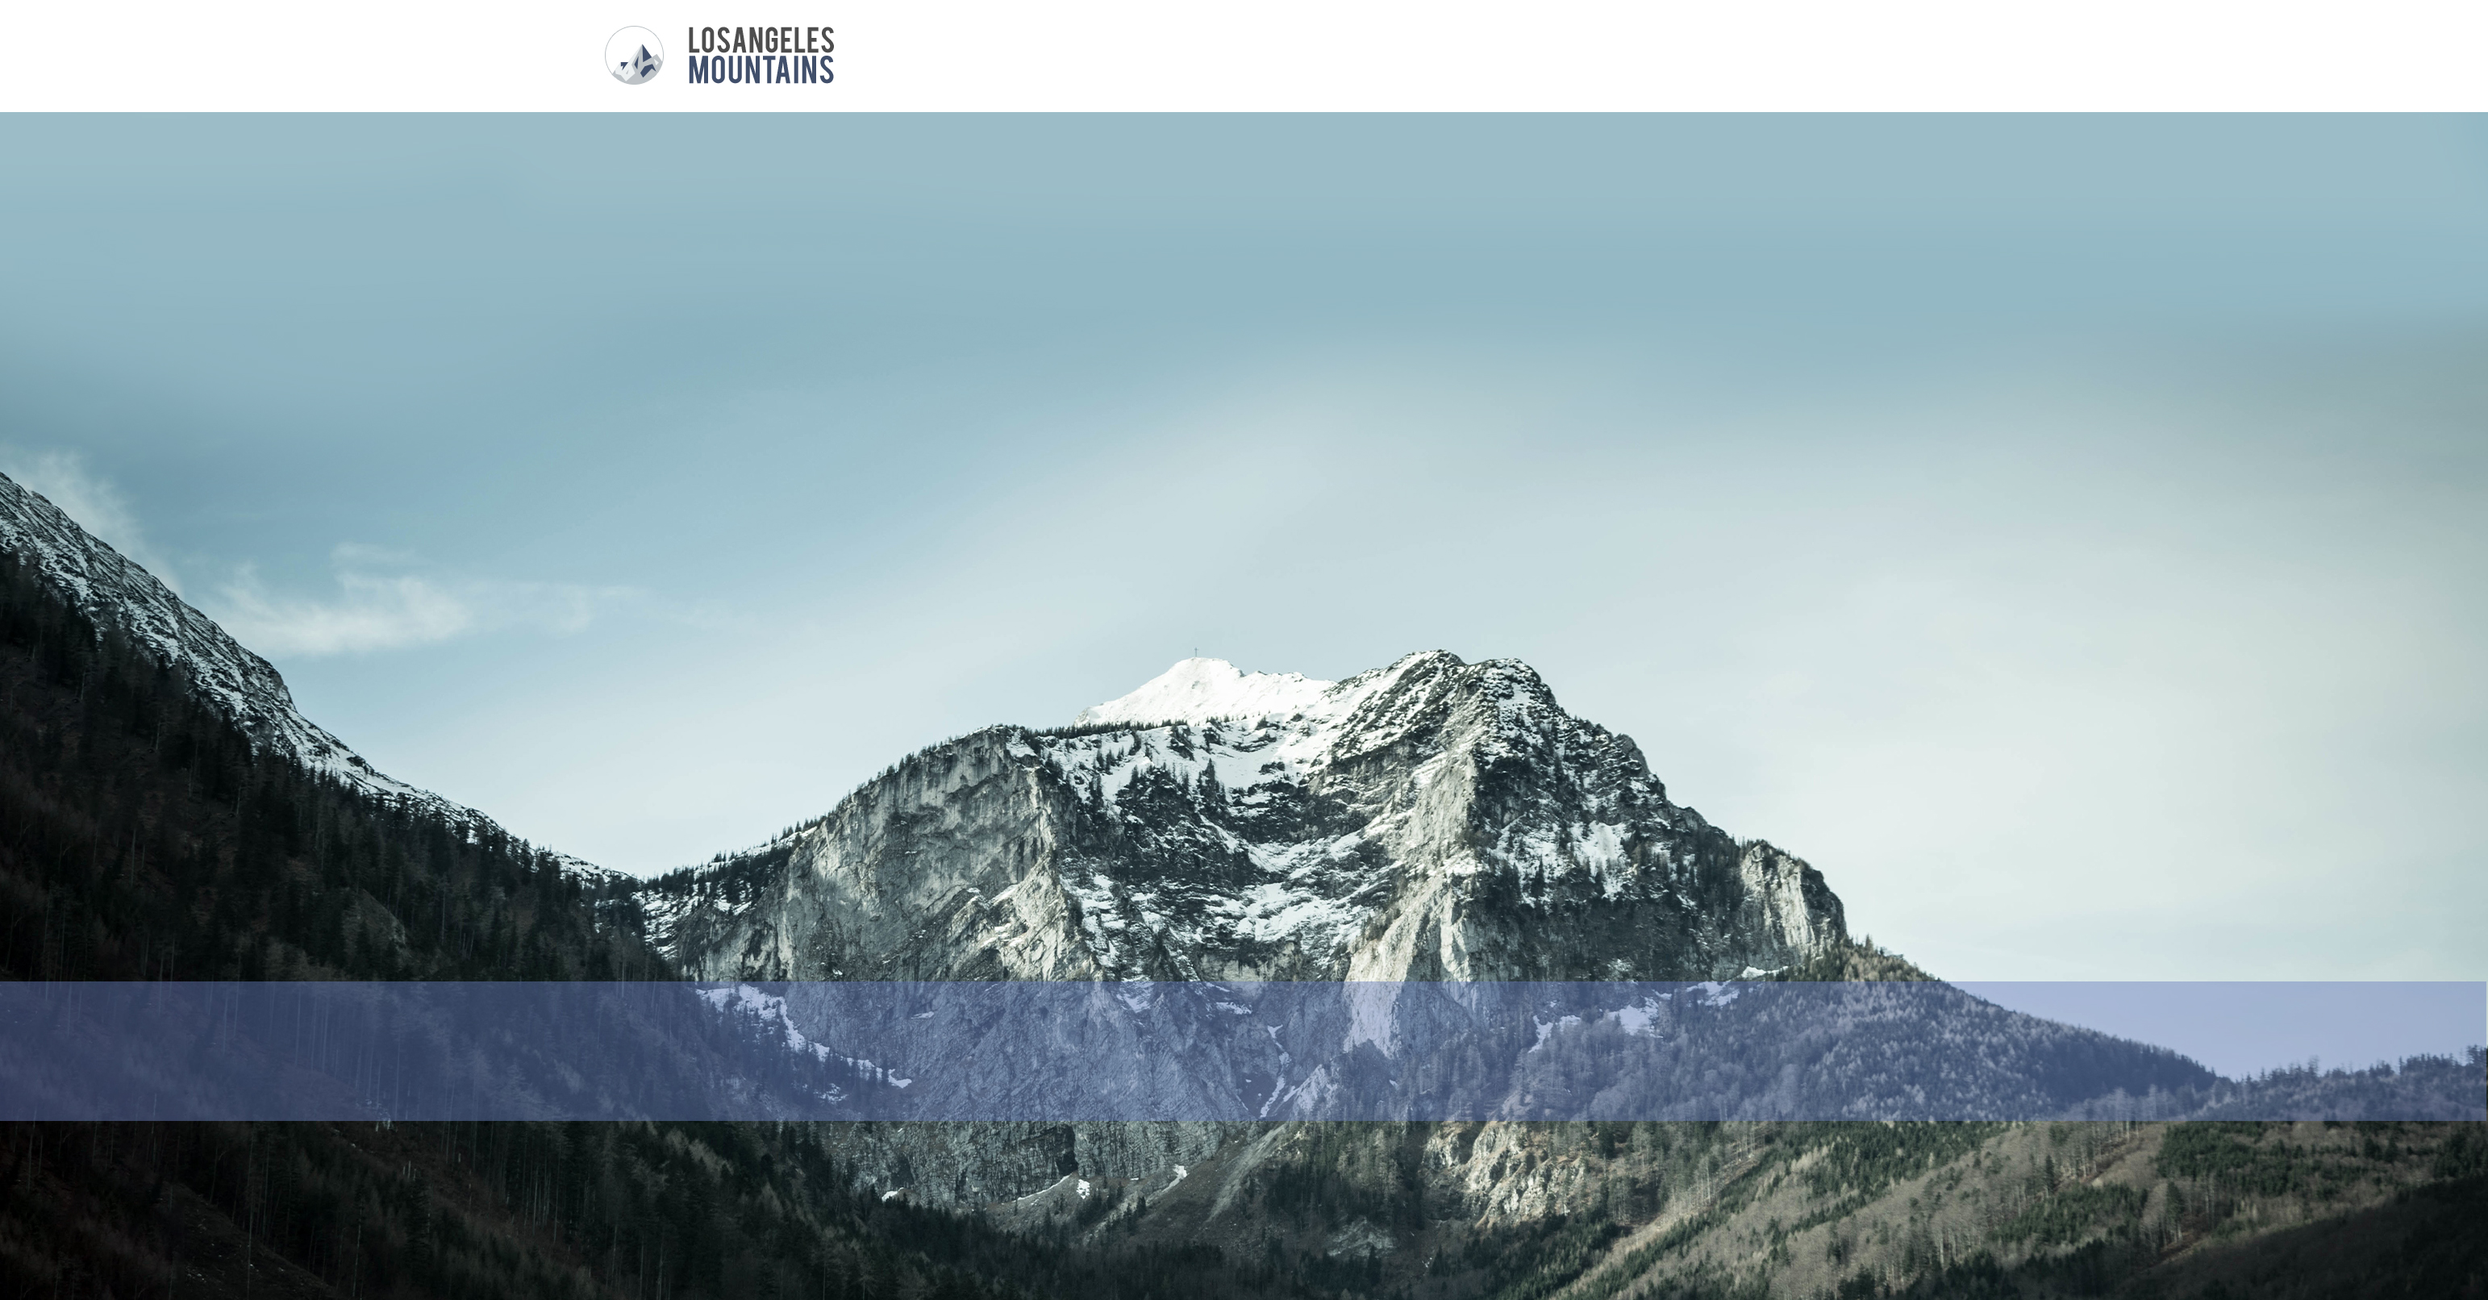
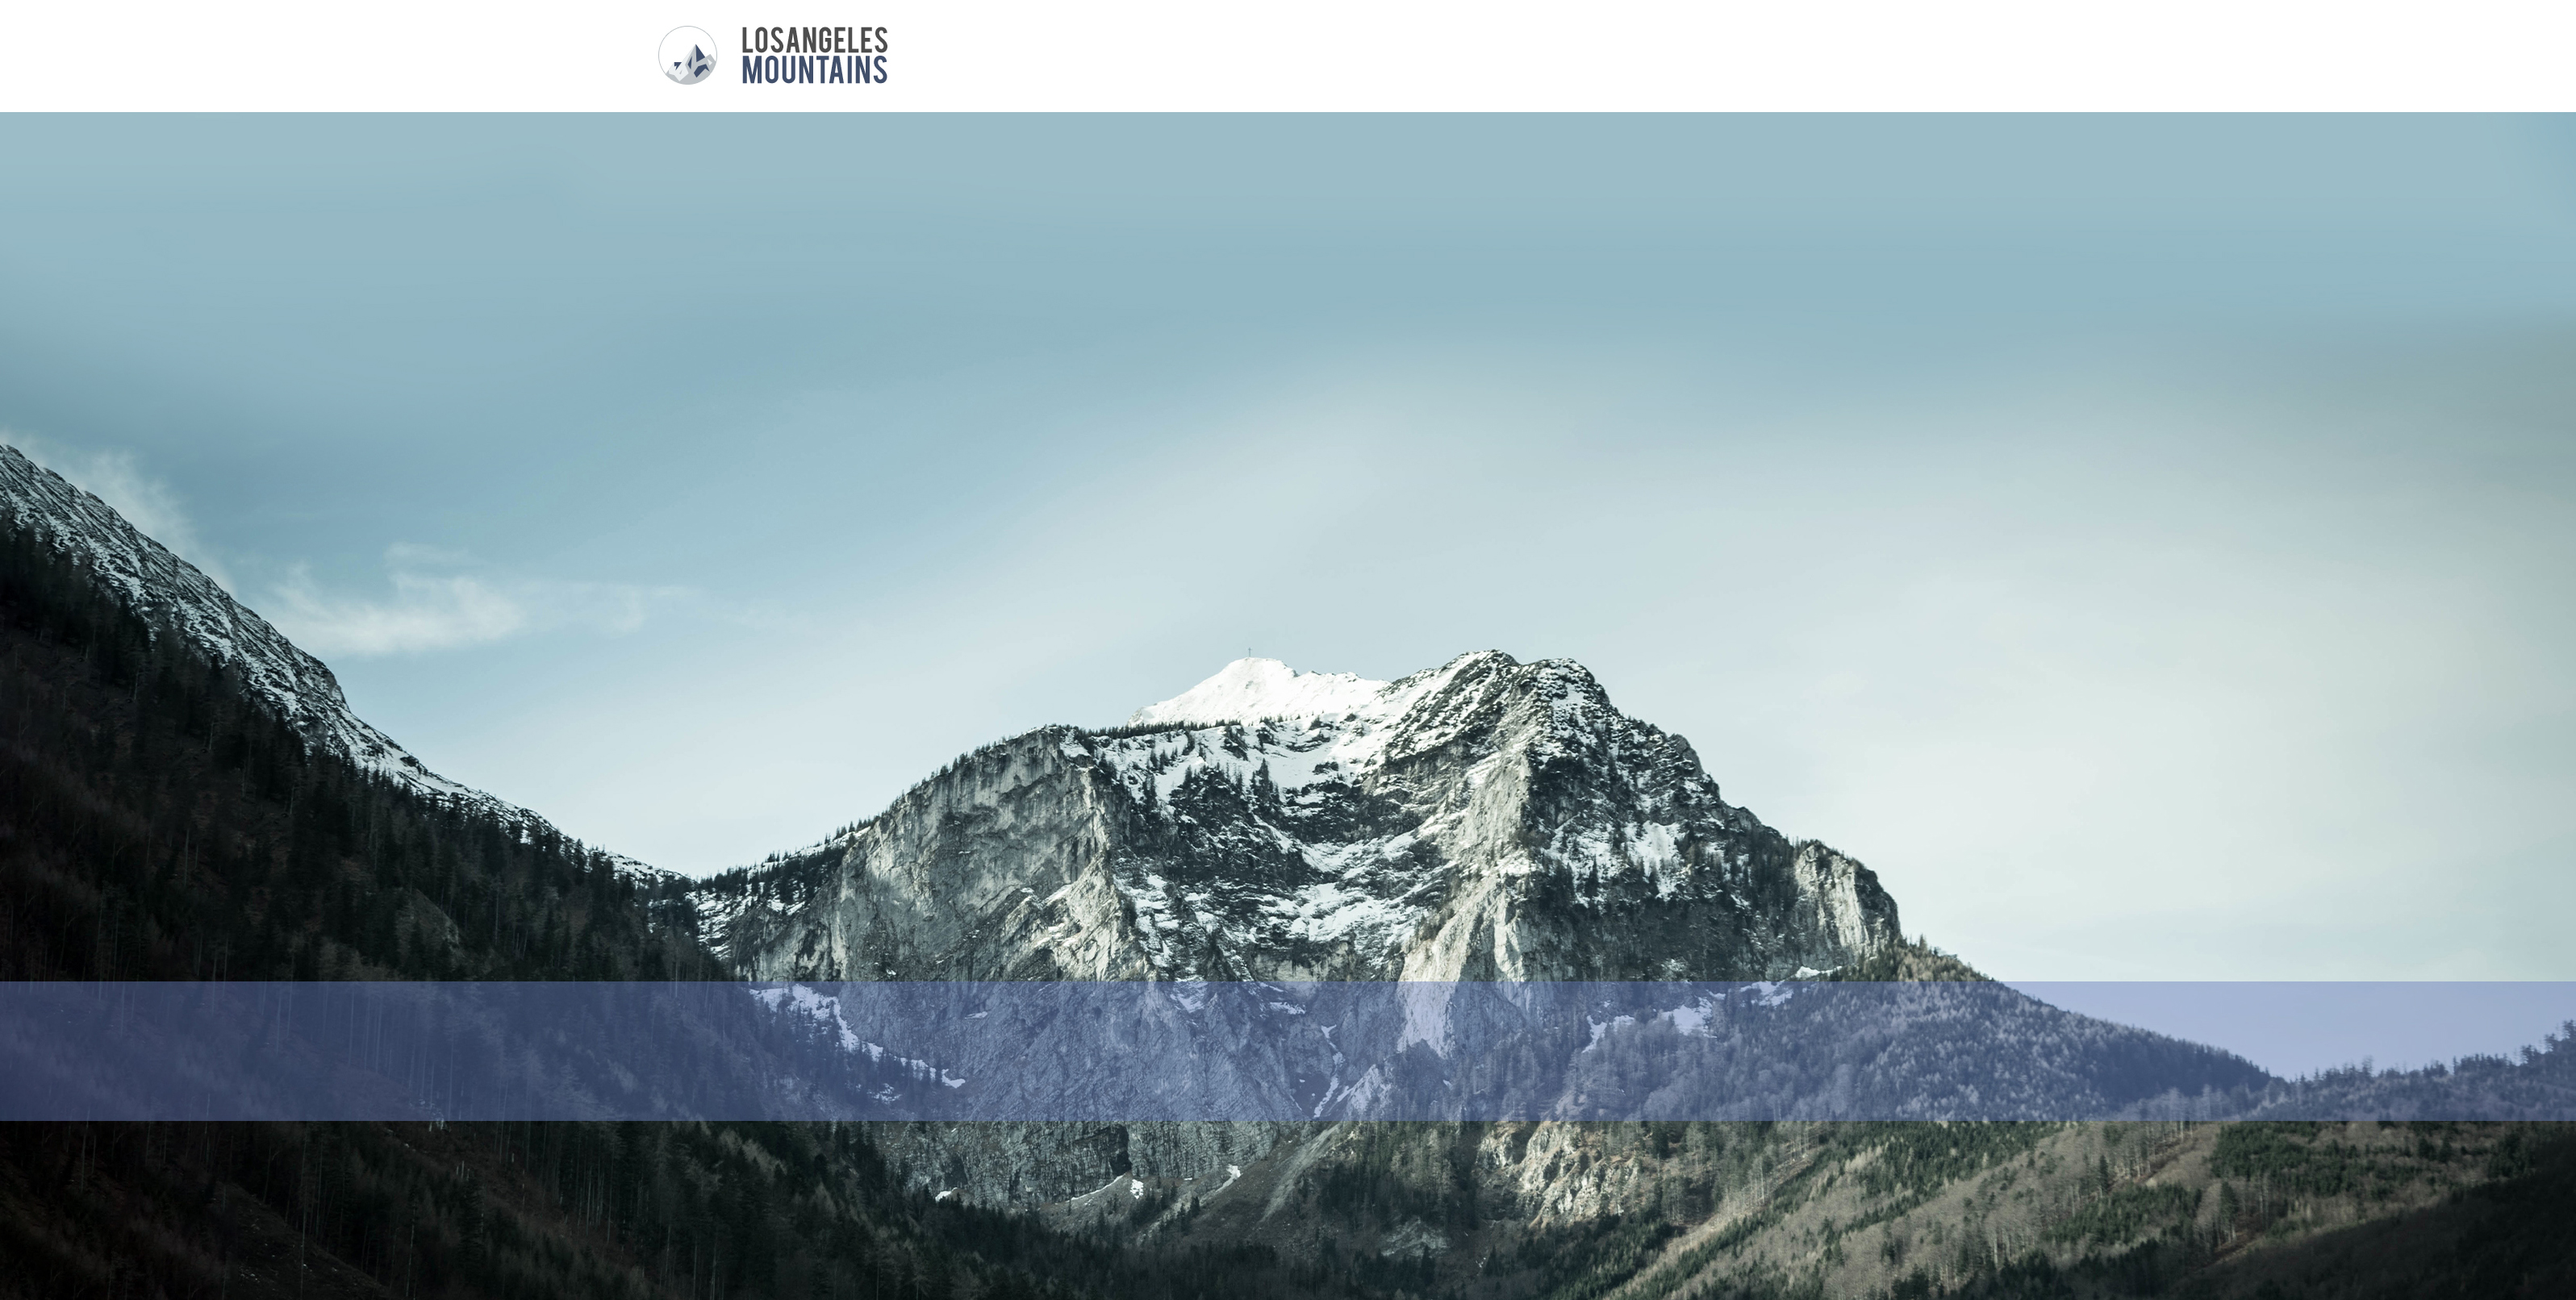
nw

diff --git a/history.html b/history.html
@@ -4,15 +4,18 @@
 <head>
   <title>Welcome</title>
   <meta charset="utf-8">
-  <meta name="viewport" content="width=device-width, initial-scale=1">
+  <meta name="viewport" content="width=device-width, initial-scale=1.0">
   <link rel="stylesheet" href="https://maxcdn.bootstrapcdn.com/bootstrap/3.4.1/css/bootstrap.min.css">
   <script src="https://ajax.googleapis.com/ajax/libs/jquery/3.6.0/jquery.min.js"></script>
   <script src="https://maxcdn.bootstrapcdn.com/bootstrap/3.4.1/js/bootstrap.min.js"></script>
   <style>
     body {
-      background-image: url("history.jpg") ;
-      background-size: contain;
-      background-attachment: scroll;
+      background-image: url("history.jpg");
+      background-attachment: fixed;
+      background-position: center;
+      background-repeat: no-repeat;
+      background-size: cover;
+    
         }   
     .a {
       list-style-type: none;
@@ -49,8 +52,8 @@
   .gallery {
       background-color: aquamarine;
       position: relative;
-      left: 750;
-      top: 950;
+      left: 550;
+      top: 720;
       margin: 5px;
       border: 1px solid #ccc;
       float: left;

diff --git a/index.html b/index.html
@@ -10,9 +10,12 @@
 <script src="https://maxcdn.bootstrapcdn.com/bootstrap/3.4.1/js/bootstrap.min.js"></script>
 <style>
     body {
+      
       background-image: url("home.jpg") ;
-      background-size: contain;
-      background-attachment: scroll;
+      background-attachment: fixed;
+  background-position: center;
+  background-repeat: no-repeat;
+  background-size: cover;
     }
    .a {
       list-style-type: none;

diff --git a/team.html b/team.html
@@ -11,8 +11,11 @@
   <style>
    body {
       background-image: url("team.jpg") ;
-      background-size: contain;
-      background-attachment: scroll;
+      background-attachment: fixed;
+  background-position: center;
+  background-repeat: no-repeat;
+  background-size: cover;
+    }
     }
     .head{
     color: dimgray;
